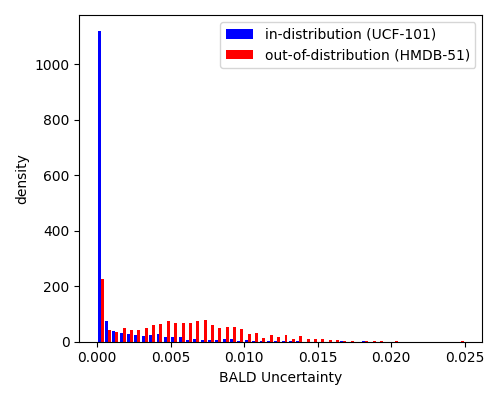
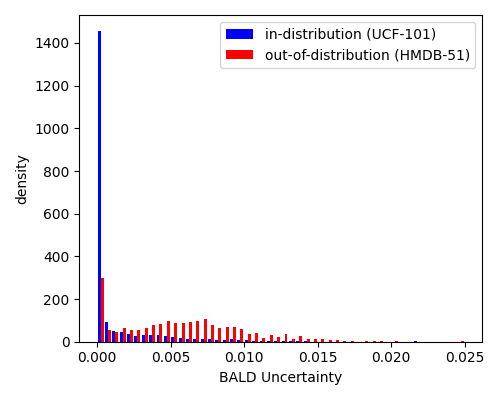
update bald

diff --git a/experiments/ood_detection.py b/experiments/ood_detection.py
@@ -20,7 +20,7 @@ def parse_args():
     # model config
     parser.add_argument('--config', help='test config file path')
     parser.add_argument('--checkpoint', help='checkpoint file/url')
-    parser.add_argument('--uncertainty', default='BALD', help='the uncertainty estimation method')
+    parser.add_argument('--uncertainty', default='BALD', choices=['BALD', 'Entropy'], help='the uncertainty estimation method')
     parser.add_argument('--forward_pass', type=int, default=10, help='the number of forward passes')
     # data config
     parser.add_argument('--label_names', help='label file')
@@ -28,7 +28,7 @@ def parse_args():
     parser.add_argument('--ood_data', help='the split file of out-of-distribution testing data')
     # env config
     parser.add_argument('--device', type=str, default='cuda:0', help='CPU/CUDA device option')
-    parser.add_argument('--result_file', help='result file')
+    parser.add_argument('--result_tag', help='result file tag')
     args = parser.parse_args()
     return args
 
@@ -198,9 +198,10 @@ def main():
     cfg.data.test.test_mode = True
     cfg.test_pipeline[2].type = 'PyAVDecode'
     
-    if not os.path.exists(args.result_file):
+    result_file = os.path.join('./experiments/results', args.result_tag + '_result.npz')
+    if not os.path.exists(result_file):
         # prepare result path
-        result_dir = os.path.dirname(args.result_file)
+        result_dir = os.path.dirname(result_file)
         if not os.path.exists(result_dir):
             os.makedirs(result_dir)
         # run inference (OOD)
@@ -210,24 +211,21 @@ def main():
         ind_uncertainties, ind_results = run_inference(model, dataset='ucf101', npass=args.forward_pass)
         # ind_uncertainties, ind_results = run_inference_simple(args.ind_data, model, args.forward_pass, desc='IND data')
         # save
-        np.savez(args.result_file[:-4], ind_unctt=ind_uncertainties, ood_unctt=ood_uncertainties, ind_score=ind_results, ood_score=ood_results)
+        np.savez(result_file[:-4], ind_unctt=ind_uncertainties, ood_unctt=ood_uncertainties, ind_score=ind_results, ood_score=ood_results)
     else:
-        results = np.load(args.result_file, allow_pickle=True)
+        results = np.load(result_file, allow_pickle=True)
         ind_uncertainties = results['ind_unctt']
         ood_uncertainties = results['ood_unctt']
     # visualize
     plt.figure(figsize=(5,4))  # (w, h)
-    data_len = min(len(ind_uncertainties), len(ood_uncertainties))
-    # data_len = 200 if data_len > 200 else data_len
-    data_plot = np.stack((ind_uncertainties[:data_len], ood_uncertainties[:data_len])).transpose()
-    plt.hist(data_plot, 50, histtype='bar', color=['blue', 'red'], label=['in-distribution (UCF-101)', 'out-of-distribution (HMDB-51)'])
+    plt.hist([ind_uncertainties, ood_uncertainties], 50, density=True, histtype='bar', color=['blue', 'red'], label=['in-distribution (UCF-101)', 'out-of-distribution (HMDB-51)'])
     # plt.xlim(0, 0.02)
     # plt.xticks(np.arange(0, 0.021, 0.005))
     plt.legend(prop={'size': 10})
-    plt.xlabel('BALD Uncertainty')
+    plt.xlabel('%s Uncertainty'%(args.uncertainty))
     plt.ylabel('density')
     plt.tight_layout()
-    plt.savefig(os.path.join(os.path.dirname(args.result_file), 'BALD_distribution.png'))
+    plt.savefig(os.path.join('./experiments/results', args.result_tag + '_distribution.png'))
 
 if __name__ == '__main__':
 
